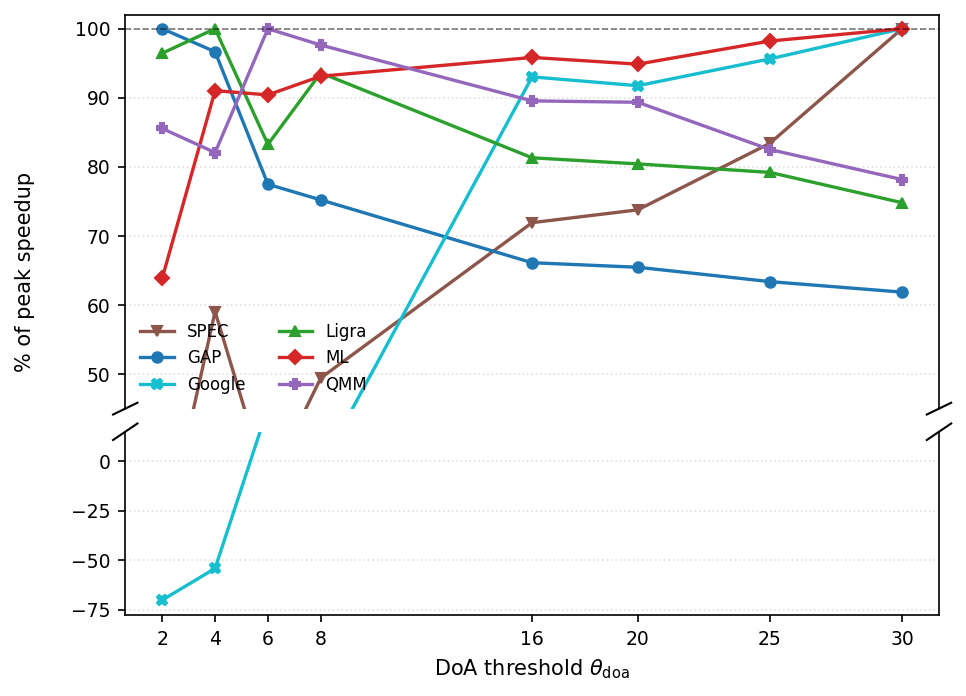
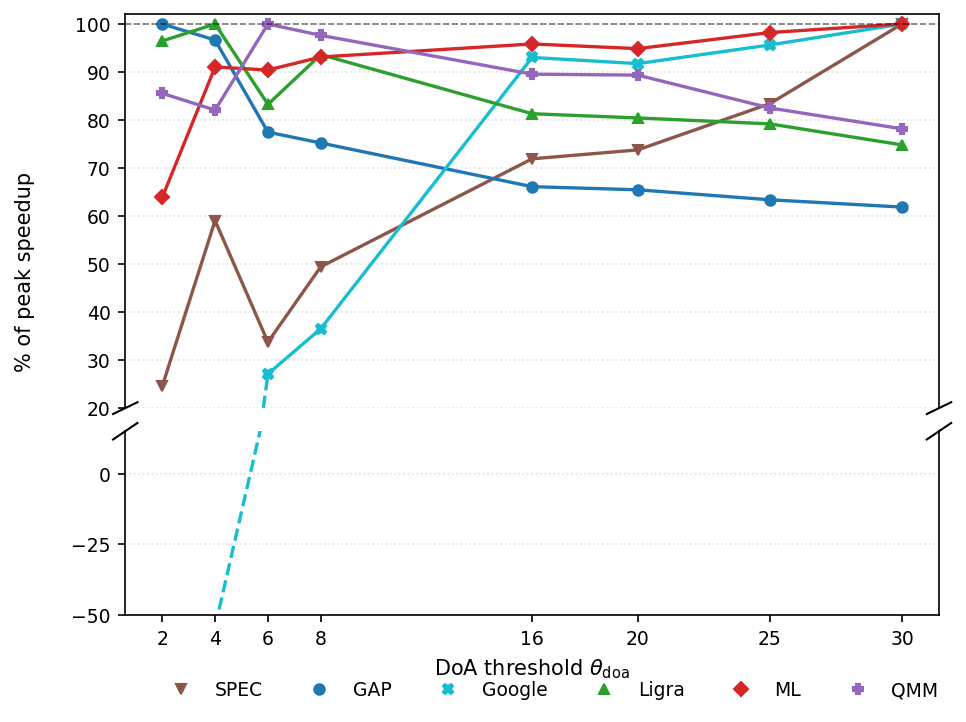
paper: fix Figure 2's axis break and match earlier style
Fixes a real bug: the top panel's ylim (45-102) excluded SPEC's
theta_doa=2 point (24.1%), which fell in the gap between panels and
was invisible. Top panel now starts at 20 (just below the lowest real
point above the gap), so every data point renders somewhere.

Also, per feedback: legend moved below the plot (was inline
upper-left); segments crossing the axis break are now dashed rather
than solid-clipped, matching the earlier (lost) rendering; bottom
panel cut at -50 instead of -75/-78, which clips Google's most
extreme point (-70.0% at theta_doa=2) at the frame edge -- noted in
the caption.

diff --git a/scripts/analysis/plot_lru_live_threshold_normalized_duel.py b/scripts/analysis/plot_lru_live_threshold_normalized_duel.py
@@ -56,6 +56,17 @@ def get_ipc(path):
     return None
 
 
+# Break the y-axis inside the empty band between the two panels. No suite has
+# a normalised value between GAP_LOW and GAP_HIGH at any theta, so nothing
+# real is hidden by the break itself. GAP_HIGH must stay below the lowest
+# real point above the gap (SPEC at theta=2, 24.1%). BOTTOM_MIN is capped at
+# -50 as requested; this does clip Google's most extreme points (-70.0% at
+# theta=2, -54.2% at theta=4) at the bottom frame edge.
+GAP_HIGH = 20
+GAP_LOW = 15
+BOTTOM_MIN = -50
+
+
 def main():
     fig, (ax_top, ax_bot) = plt.subplots(
         2, 1, sharex=True, figsize=(7, 5.2),
@@ -108,16 +119,27 @@ def main():
 
         xs = [thd for thd in THRESHOLDS if thd in vals]
         ys = [vals[thd] / peak * 100.0 for thd in THRESHOLDS if thd in vals]
+
+        # Segments that cross the empty gap between the two panels are drawn
+        # dashed (on both axes, naturally clipped to each one's ylim); segments
+        # that stay entirely within one panel's range are solid.
+        for i in range(len(xs) - 1):
+            x_seg, y_seg = xs[i:i + 2], ys[i:i + 2]
+            crossing = (min(y_seg) <= GAP_LOW) and (max(y_seg) >= GAP_HIGH)
+            style = "--" if crossing else "-"
+            for ax in (ax_top, ax_bot):
+                ax.plot(x_seg, y_seg, color=COLORS[suite], linestyle=style, linewidth=1.6)
         for ax in (ax_top, ax_bot):
             ax.plot(xs, ys, color=COLORS[suite], marker=MARKERS[suite],
-                    markersize=5, linewidth=1.6, label=label)
+                    markersize=5, linewidth=0, label=label)
 
-    ax_top.set_ylim(45, 102)
-    ax_bot.set_ylim(-78, 15)
+    ax_top.set_ylim(GAP_HIGH, 102)
+    ax_bot.set_ylim(BOTTOM_MIN, GAP_LOW)
     for ax in (ax_top, ax_bot):
         ax.set_xticks(THRESHOLDS)
         ax.tick_params(labelsize=9)
         ax.grid(axis="y", linestyle=":", alpha=0.4)
+    ax_bot.set_yticks([0, -25, -50])
     ax_top.spines["bottom"].set_visible(False)
     ax_bot.spines["top"].set_visible(False)
     ax_top.tick_params(labeltop=False, bottom=False)
@@ -134,9 +156,11 @@ def main():
 
     ax_bot.set_xlabel(r"DoA threshold $\theta_{\mathrm{doa}}$", fontsize=10)
     fig.text(0.02, 0.55, "% of peak speedup", va="center", rotation="vertical", fontsize=10)
-    ax_top.legend(frameon=False, fontsize=8, ncol=2, loc="lower left")
+    handles, labels = ax_top.get_legend_handles_labels()
+    fig.legend(handles, labels, frameon=False, fontsize=9, ncol=6,
+               loc="lower center", bbox_to_anchor=(0.53, -0.02))
 
-    fig.tight_layout(rect=(0.03, 0, 1, 1))
+    fig.tight_layout(rect=(0.03, 0.06, 1, 1))
     out = ROOT / "results" / "plots" / "lru_live_threshold_normalized_duel.png"
     fig.savefig(out, dpi=150, bbox_inches="tight")
     print("wrote", out)

diff --git a/results/paper/main.tex b/results/paper/main.tex
@@ -749,13 +749,15 @@ uniformly.
   speedup over plain \lru as a function of $\theta_{\mathrm{doa}}$
   (\llc-only guidance, mode-5 falling-weight scoring, unbounded PC-keyed
   history table), normalised to its own peak value across the sweep (100\% =
-  that suite's best threshold). Y-axis is broken to show Google's and SPEC's
-  negative/near-zero low-$\theta$ values without compressing the other four
-  suites. Each curve is over the suite's full trace set; SPEC is
-  SimPoint-weighted. GMS is omitted: it crosses from negative to positive
-  across the sweep, so normalising by its (small, positive) peak produces
-  extreme, uninformative percentages; its absolute behaviour is discussed in
-  the text below.}
+  that suite's best threshold). Y-axis is broken (dashed segments cross the
+  break) to show Google's and SPEC's negative/near-zero low-$\theta$ values
+  without compressing the other four suites; the axis is cut at $-50\%$, so
+  Google's most extreme point ($-70.0\%$ at $\theta_{\mathrm{doa}}=2$) is
+  off-frame and indicated only by its dashed approach. Each curve is over
+  the suite's full trace set; SPEC is SimPoint-weighted. GMS is omitted: it
+  crosses from negative to positive across the sweep, so normalising by its
+  (small, positive) peak produces extreme, uninformative percentages; its
+  absolute behaviour is discussed in the text below.}
 \label{fig:doa_thd}
 \end{figure}
 
